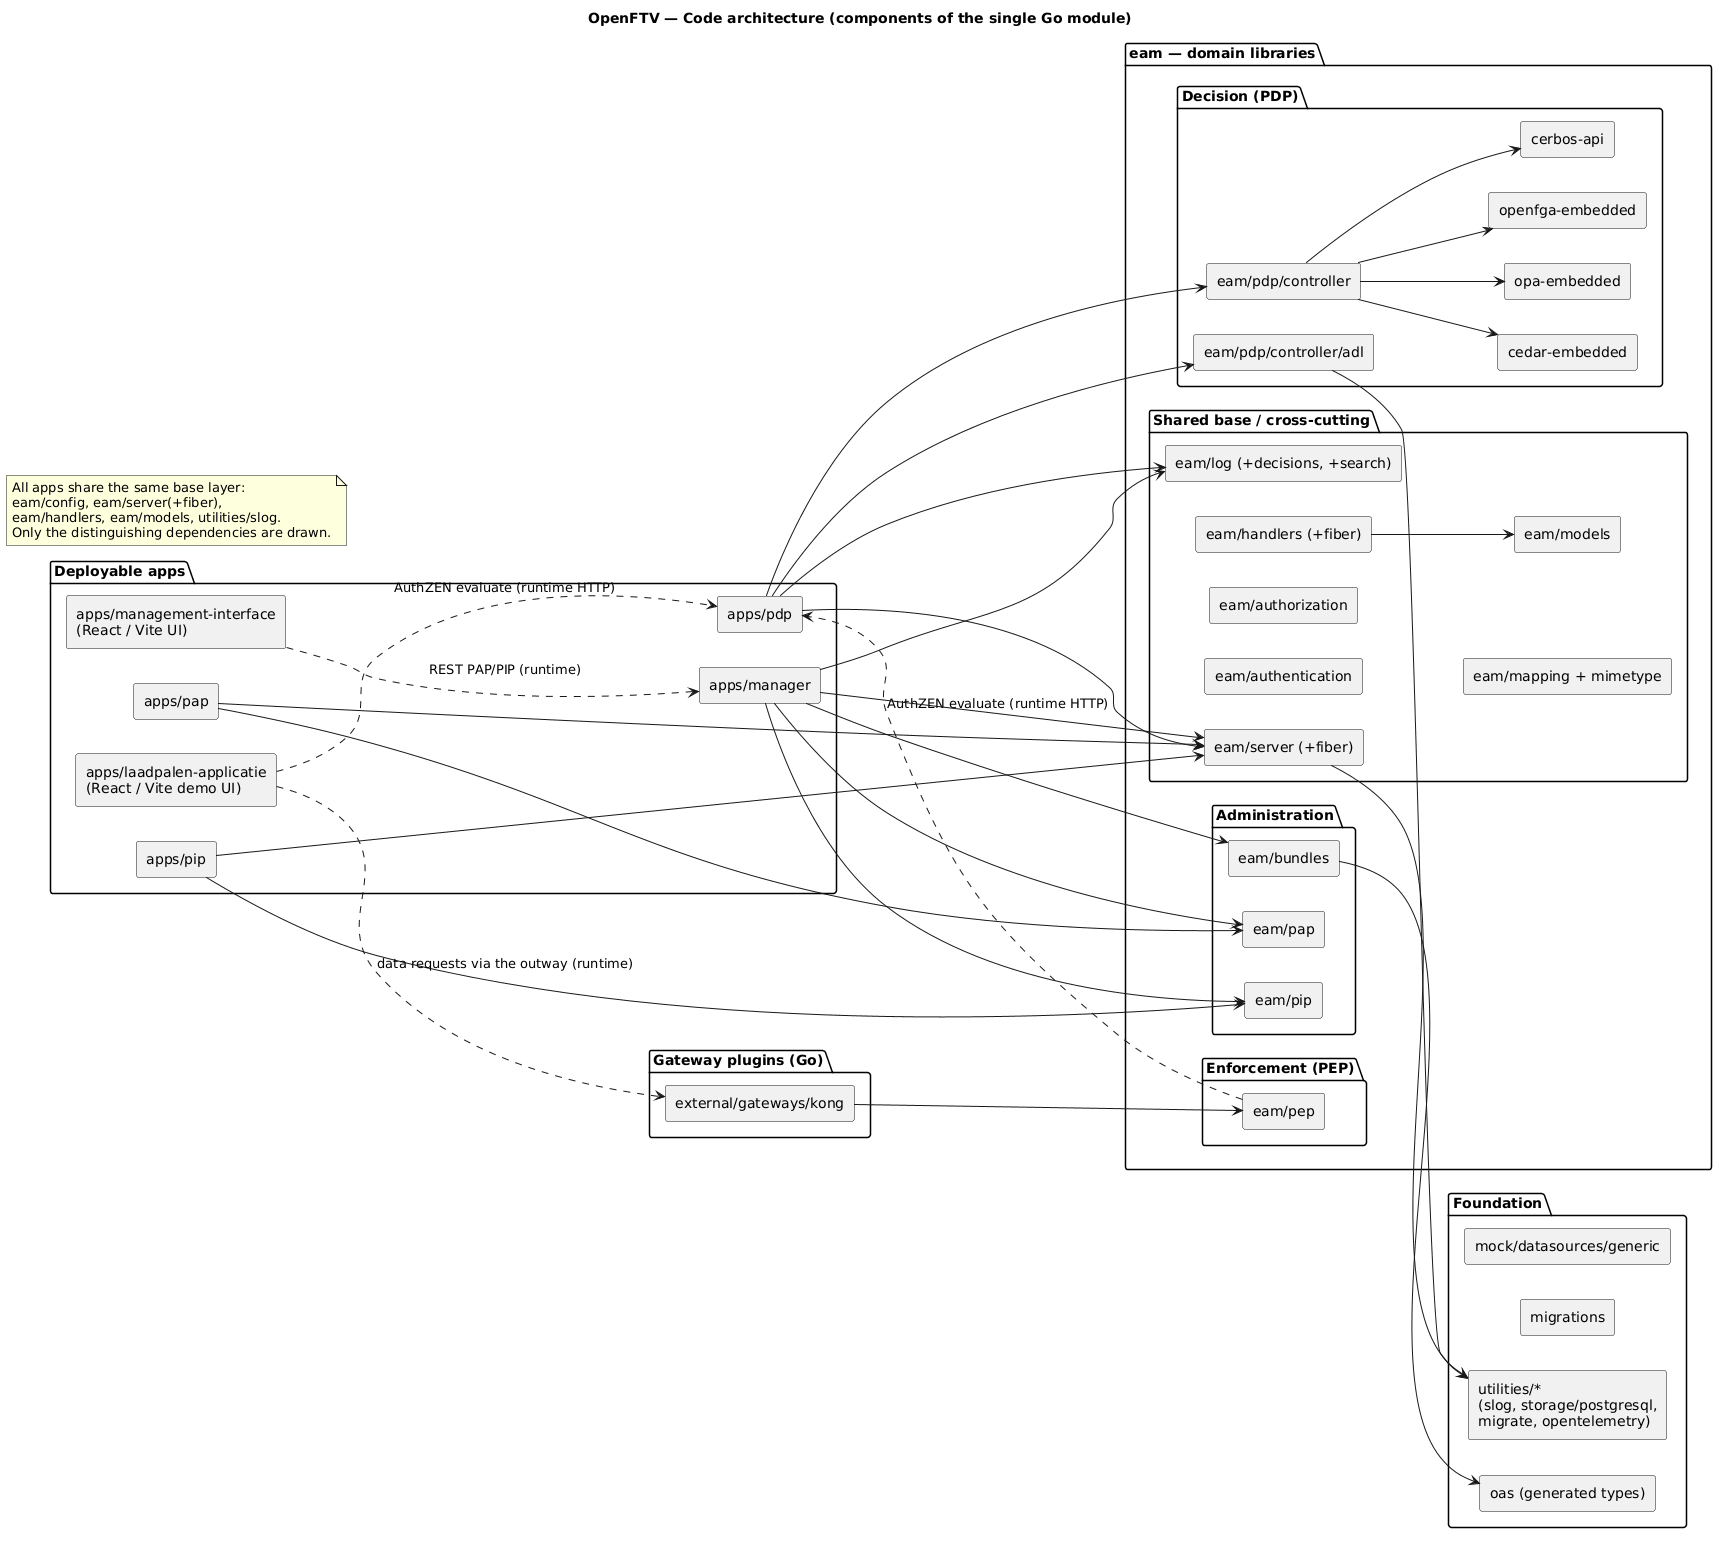
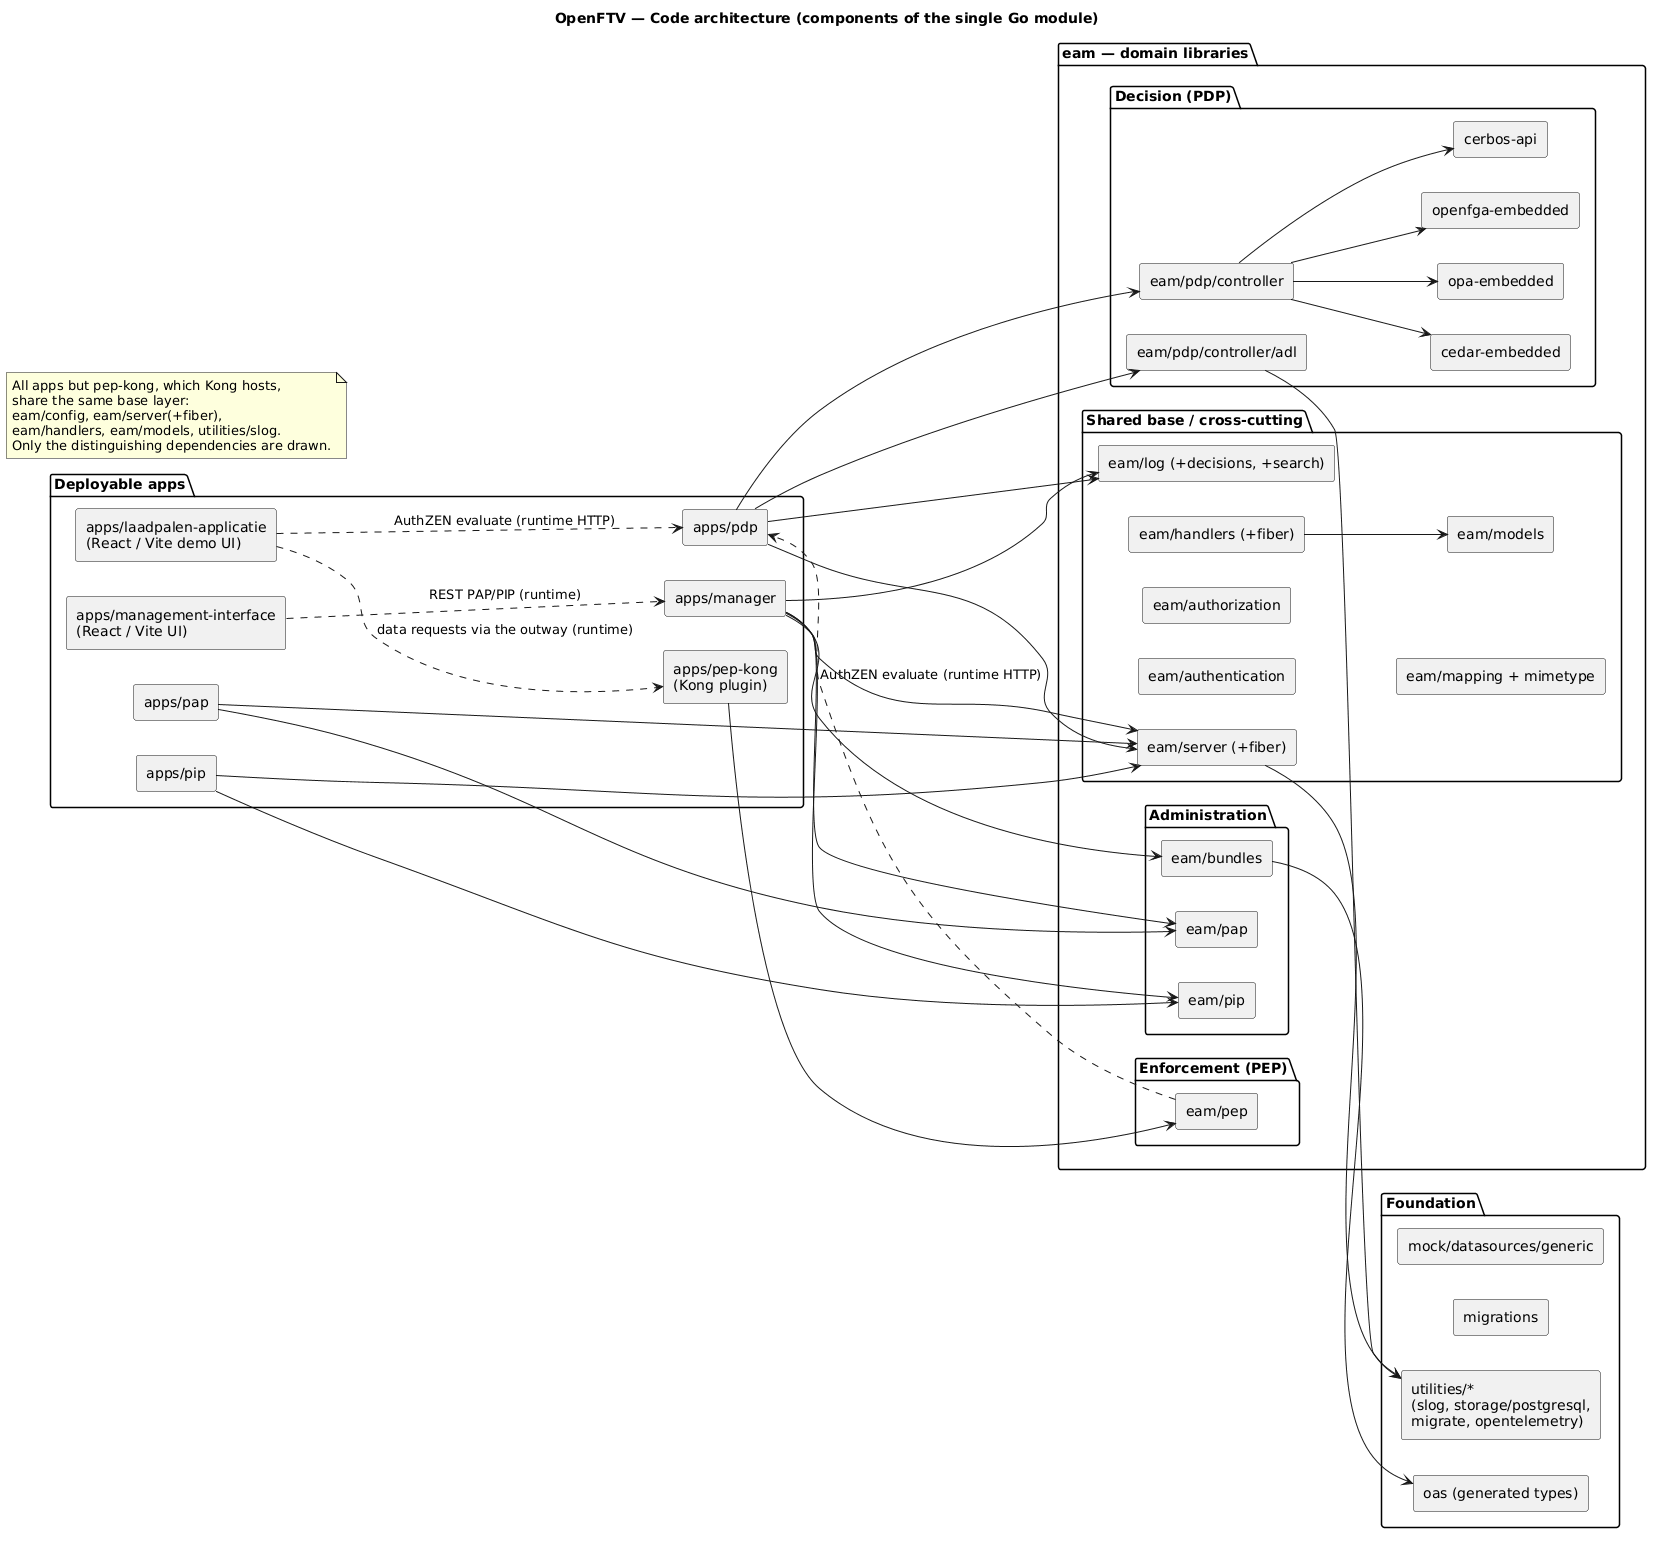
refactor: move the Kong plugin to apps/pep-kong
The plugin is open-ftv's PEP, next to the PAP, PDP and PIP in apps, and
external/ held nothing else. The main package stays in a folder named
openftv, because Kong names a Go plugin after its executable and ko names
the executable after that folder.

golangci-lint sees the moved code as new, so it gets the fixes the linter
asks for: the Config type before its methods, a named JWKS timeout, blank
lines and shorter selectors in the tests.

diff --git a/apps/pep-kong/cmd/openftv/oidc_test.go b/apps/pep-kong/cmd/openftv/oidc_test.go
@@ -21,8 +21,10 @@ import (
 
 func mustParse(t *testing.T, raw string) *url.URL {
 	t.Helper()
+
 	u, err := url.Parse(raw)
 	require.NoError(t, err)
+
 	return u
 }
 
@@ -31,10 +33,11 @@ func TestPEPOptionFromConfigValidatesJWKSSignedToken(t *testing.T) {
 	require.NoError(t, err)
 
 	const kid = "test-key-1"
+
 	jwks := map[string]any{"keys": []map[string]any{{
 		"kty": "RSA", "alg": "RS256", "use": "sig", "kid": kid,
-		"n": base64.RawURLEncoding.EncodeToString(key.PublicKey.N.Bytes()),
-		"e": base64.RawURLEncoding.EncodeToString(big.NewInt(int64(key.PublicKey.E)).Bytes()),
+		"n": base64.RawURLEncoding.EncodeToString(key.N.Bytes()),
+		"e": base64.RawURLEncoding.EncodeToString(big.NewInt(int64(key.E)).Bytes()),
 	}}}
 
 	srv := httptest.NewServer(http.HandlerFunc(func(w http.ResponseWriter, _ *http.Request) {
@@ -73,12 +76,15 @@ func TestPEPOptionFromConfigValidatesJWKSSignedToken(t *testing.T) {
 func TestEnsurePEPValidatesToken(t *testing.T) {
 	key, err := rsa.GenerateKey(rand.Reader, 2048)
 	require.NoError(t, err)
+
 	const kid = "test-key-1"
+
 	jwks := map[string]any{"keys": []map[string]any{{
 		"kty": "RSA", "alg": "RS256", "use": "sig", "kid": kid,
-		"n": base64.RawURLEncoding.EncodeToString(key.PublicKey.N.Bytes()),
-		"e": base64.RawURLEncoding.EncodeToString(big.NewInt(int64(key.PublicKey.E)).Bytes()),
+		"n": base64.RawURLEncoding.EncodeToString(key.N.Bytes()),
+		"e": base64.RawURLEncoding.EncodeToString(big.NewInt(int64(key.E)).Bytes()),
 	}}}
+
 	srv := httptest.NewServer(http.HandlerFunc(func(w http.ResponseWriter, _ *http.Request) {
 		_ = json.NewEncoder(w).Encode(jwks)
 	}))

diff --git a/apps/pep-kong/cmd/openftv/config.go b/apps/pep-kong/cmd/openftv/config.go
@@ -9,6 +9,20 @@ import (
 	"gitlab.com/digilab.overheid.nl/ecosystem/ftv/open-ftv/eam/pep"
 )
 
+type Config struct {
+	PDP        string `json:"pdp"`
+	Timeout    int    `json:"timeout"`
+	Issuer     string `json:"issuer"`
+	JWKSURL    string `json:"jwks_url"`
+	Audience   string `json:"audience"`
+	RolesClaim string `json:"roles_claim"`
+	// EvaluateResponse also asks the PDP for a decision on the upstream response.
+	EvaluateResponse bool `json:"evaluate_response"`
+	// hidden fields
+	once sync.Once
+	pep  *pep.PEP
+}
+
 func newConfig() any {
 	return &Config{}
 }
@@ -26,18 +40,4 @@ func (c *Config) ensurePEP() {
 
 func newPEPWith(opt pep.Option) *pep.PEP {
 	return pep.New(context.Background(), slog.New(slog.NewJSONHandler(os.Stdout, nil)), opt)
-}
-
-type Config struct {
-	PDP        string `json:"pdp"`
-	Timeout    int    `json:"timeout"`
-	Issuer     string `json:"issuer"`
-	JWKSURL    string `json:"jwks_url"`
-	Audience   string `json:"audience"`
-	RolesClaim string `json:"roles_claim"`
-	// EvaluateResponse also asks the PDP for a decision on the upstream response.
-	EvaluateResponse bool `json:"evaluate_response"`
-	// hidden fields
-	once sync.Once
-	pep  *pep.PEP
 }

diff --git a/apps/pep-kong/cmd/openftv/oidc.go b/apps/pep-kong/cmd/openftv/oidc.go
@@ -10,6 +10,8 @@ import (
 	"gitlab.com/digilab.overheid.nl/ecosystem/ftv/open-ftv/eam/pep"
 )
 
+const jwksFetchTimeout = 10 * time.Second
+
 // pepOptionFromConfig builds a JWKS-backed JWT validation option from the plugin
 // config. Returns (nil, nil) when OIDC is not configured (no JWKSURL).
 func pepOptionFromConfig(c *Config) (pep.Option, error) {
@@ -17,7 +19,7 @@ func pepOptionFromConfig(c *Config) (pep.Option, error) {
 		return nil, nil
 	}
 
-	ctx, cancel := context.WithTimeout(context.Background(), 10*time.Second)
+	ctx, cancel := context.WithTimeout(context.Background(), jwksFetchTimeout)
 	defer cancel()
 
 	k, err := keyfunc.NewDefaultCtx(ctx, []string{c.JWKSURL})

diff --git a/docs/architecture/README.md b/docs/architecture/README.md
@@ -5,7 +5,7 @@ PlantUML source for the OpenFTV architecture. Three views:
 | Source | Rendered | Shows |
 | --- | --- | --- |
 | [`containers.puml`](containers.puml) | [`openftv-containers.png`](openftv-containers.png) | Deployment view — the six containers per organization (frontend, manager, gateway, PDP, dataspace, Postgres), their ports, intra-org wiring, and the cross-org request path. |
-| [`code.puml`](code.puml) | [`openftv-code.png`](openftv-code.png) | Code view — the components of the single Go module: deployable apps, gateway plugins, the `eam/*` domain libraries (PEP / PDP / administration / shared base), and the foundation layer. |
+| [`code.puml`](code.puml) | [`openftv-code.png`](openftv-code.png) | Code view — the components of the single Go module: deployable apps (including the Kong plugin), the `eam/*` domain libraries (PEP / PDP / administration / shared base), and the foundation layer. |
 | [`request-sequence.puml`](request-sequence.puml) | [`openftv-request-sequence.png`](openftv-request-sequence.png) | A `Vlierdam → RDW` data request step by step, including both PDP evaluations and the decision log. |
 
 ## Containers & services

diff --git a/apps/pep-kong/README.md b/apps/pep-kong/README.md
@@ -1,0 +1,16 @@
+# OpenFTV - PEP for Kong
+
+The Policy Enforcement Point (PEP) for the open-source Kong gateway, as a Kong Go plugin called `openftv`. It
+authorizes each request through an AuthZEN compatible PDP, following the AuthZEN API gateway profile, and can also have
+the PDP evaluate the upstream response.
+
+The plugin is configured per service or route in Kong's declarative configuration; see the `openftv` plugin entries in
+`demo/*/kong/conf.yaml.template` and the `Config` fields in `cmd/openftv/config.go`.
+
+## Running
+
+- **Locally:** docker compose builds `Dockerfile`, a Kong image with the plugin at `/usr/local/bin/openftv`.
+- **Simulation:** CI builds the `gw-kong` image with ko on a Kong base image, with the plugin at `/ko-app/openftv`.
+
+Kong names a Go plugin after its executable, and ko names the executable after the folder holding `main.go`. That
+folder must therefore stay `cmd/openftv`, or Kong no longer finds the `openftv` plugin.

diff --git a/README.md b/README.md
@@ -4,11 +4,10 @@ This repository contains the reference implementation of [Federatieve Toegangsve
 
 ## Folder structure
 
-- `apps      ` code for EAM services (e.g. `pap`, `pdp`, `pip` etc.).
+- `apps      ` code for EAM services (e.g. `pap`, `pdp`, `pip`, `pep-kong` etc.).
 - `demo      ` configuration of the Laadpalen demo, per organization.
 - `docker    ` docker and compose related scripts.
 - `eam       ` shared generic EAM components.
-- `external  ` OpenFTV plugins for external software products. 
 - `migrations` database migration scripts.
 - `mock      ` mock services, including the generic mock data-service.
 - `oas       ` OpenAPI specifications for the project.
